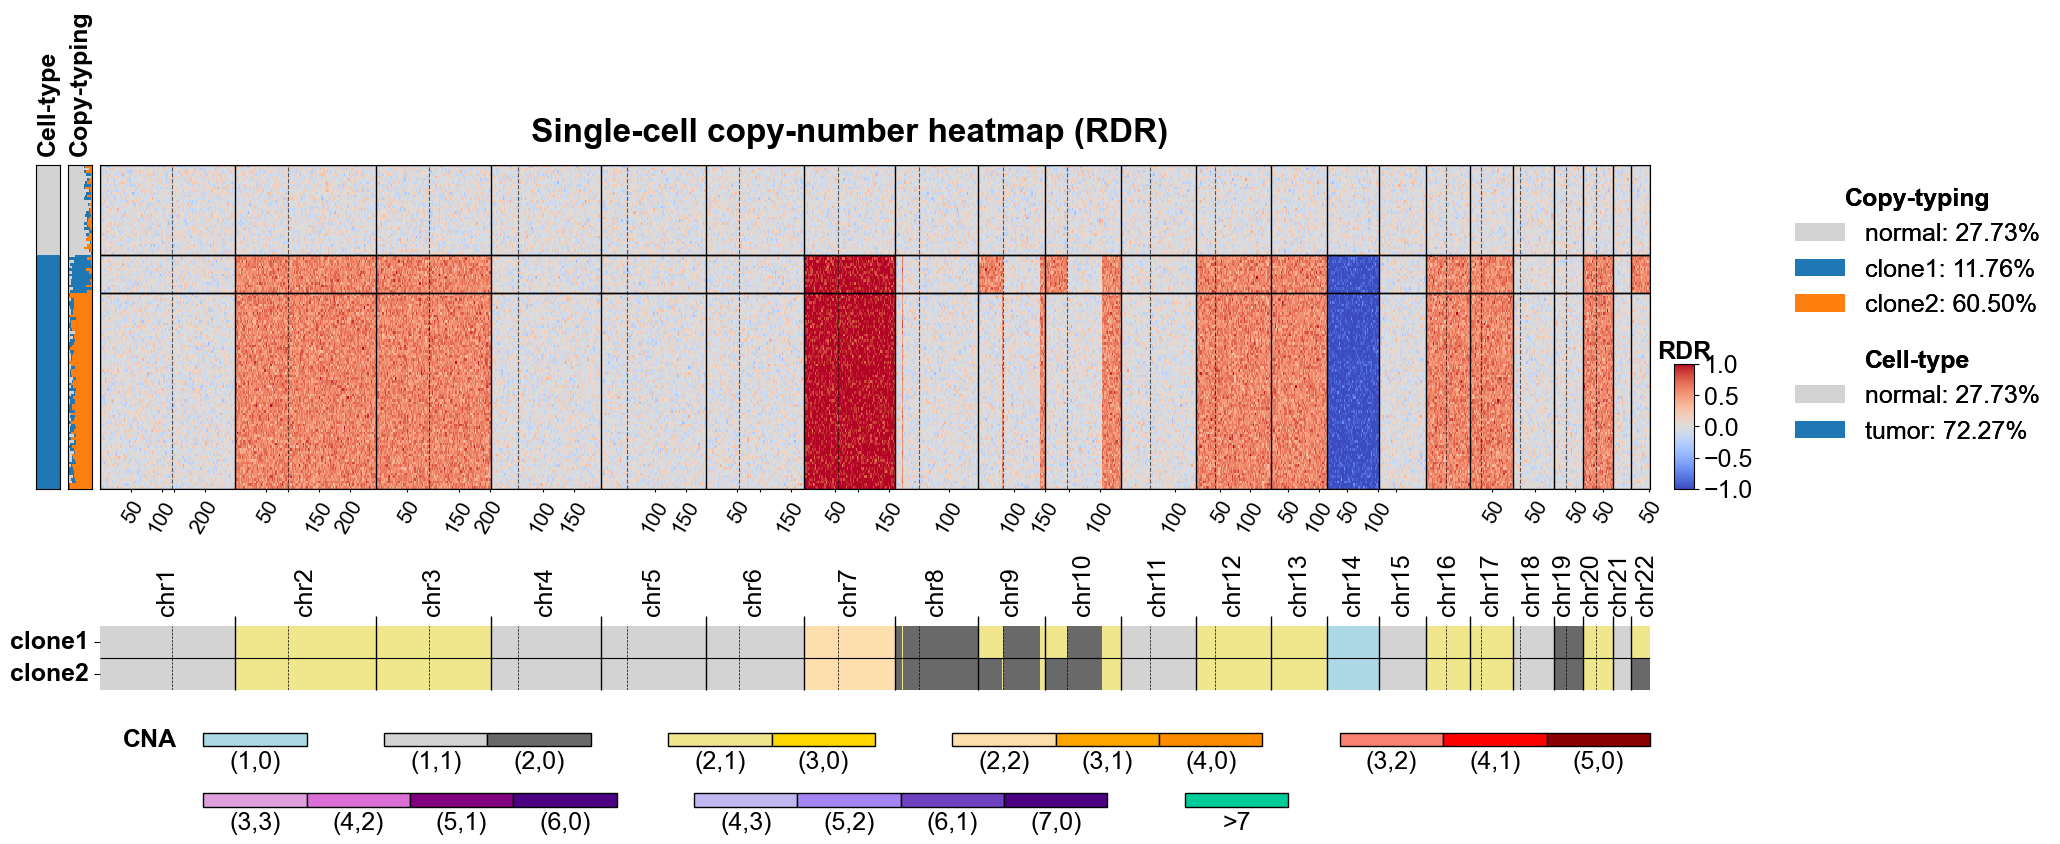
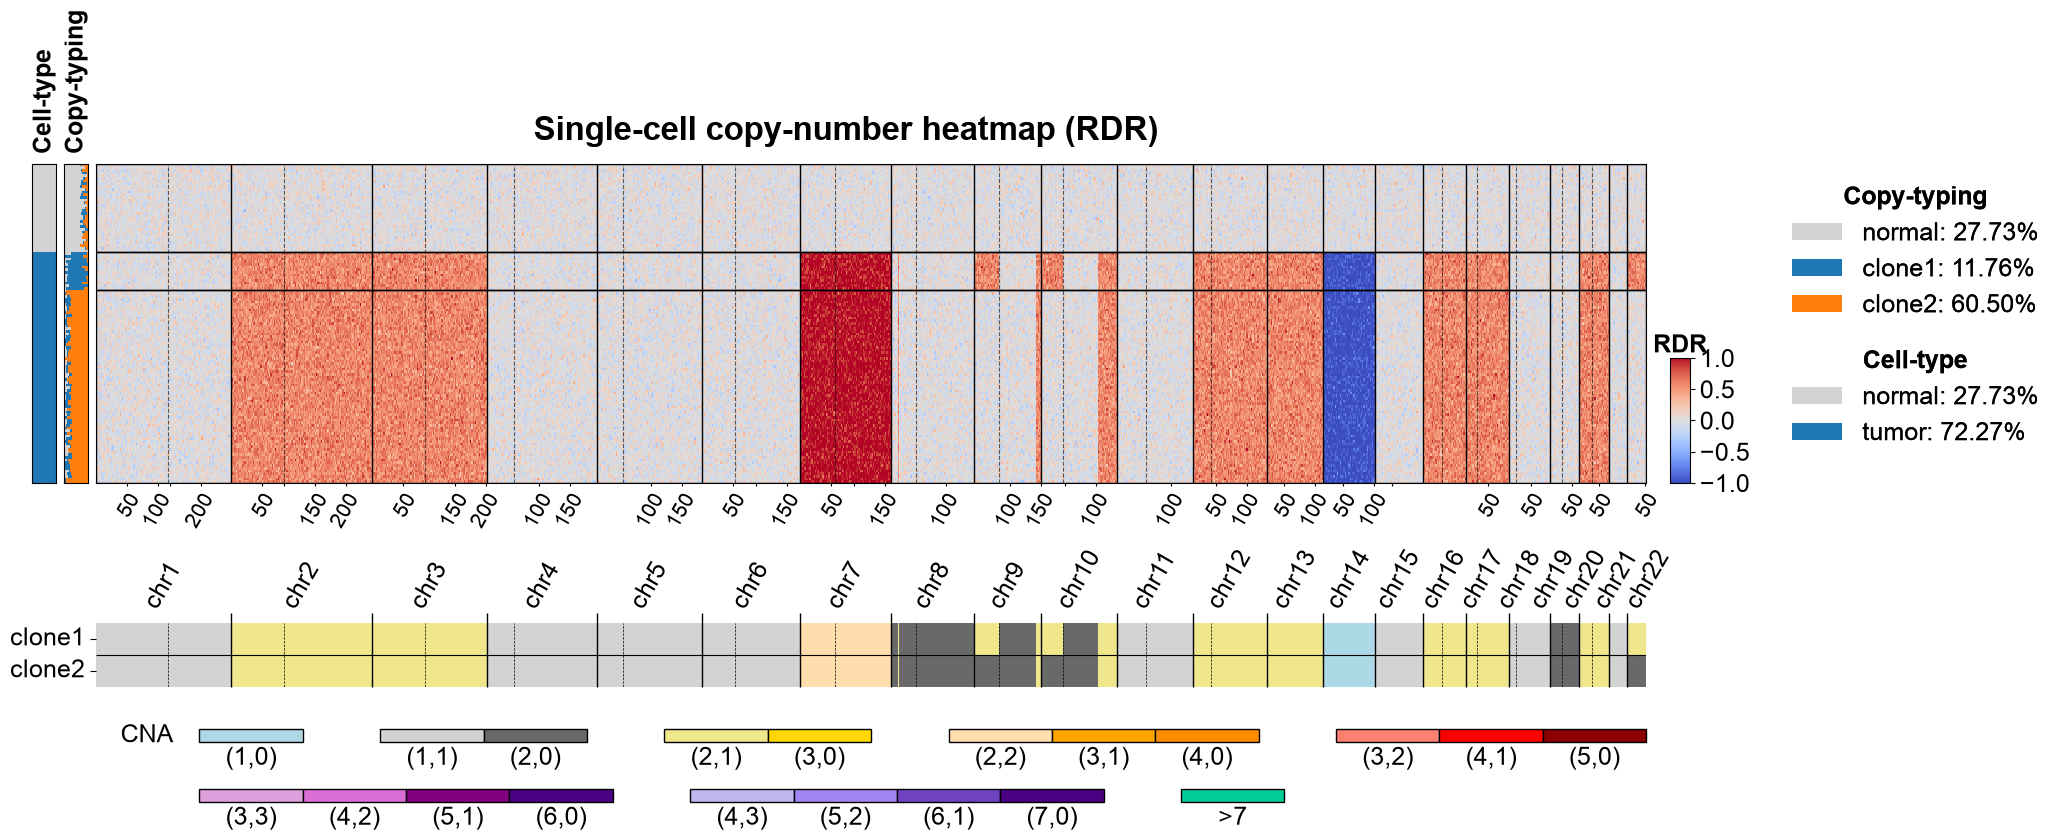
feat: chromosome names keep their rotation; regular-weight clone labels; 0.1.1b2
- Chromosome names keep the requested rotation (60 degrees by default)
  instead of standing upright when crowded; crowded names are still
  nudged apart, or split onto a second row on a narrow axes.
  chrname_tiers takes a rotation argument and genome_label_room sizes the
  gap for names at that angle.
- Clone labels beside the integer-CN profile, the heatmap row-block
  labels and the CN key's CNA title are set in the regular weight.
- Gallery images redrawn.
- Version 0.1.1b2.

diff --git a/src/cnplot/cnplot_utils.py b/src/cnplot/cnplot_utils.py
@@ -218,7 +218,7 @@ _CHRNAME_CHARS = 5
 _MB_CHARS = 3
 # Mb labels sit this far under the chromosome-name size.
 _MB_SHRINK = 3
-# Width one upright label needs, in font sizes.
+# Space one line of text needs across its height, in font sizes.
 _LINE = 1.1
 
 
@@ -236,6 +236,27 @@ def _label_extent_pt(n_chars: int, fontsize: float, rotation: float) -> float:
     length = _GLYPH_ADVANCE * fontsize * n_chars
     angle = math.radians(rotation)
     return length * abs(math.sin(angle)) + fontsize * abs(math.cos(angle))
+
+
+def _chrname_pitch(fontsize: float, rotation: float) -> float:
+    """Spacing along the axis two neighbouring chromosome names need, in points.
+
+    Parallel labels clear each other either side by side, a line apart across
+    their height, or end to end, a label length apart along their baseline;
+    the smaller of the two spacings is enough.
+
+    Args:
+        fontsize: Name font size in points.
+        rotation: Label rotation in degrees.
+
+    Returns:
+        The spacing in points.
+    """
+    angle = math.radians(rotation)
+    length = _GLYPH_ADVANCE * fontsize * (_CHRNAME_CHARS + 1)
+    side_by_side = _LINE * fontsize / max(abs(math.sin(angle)), 1e-6)
+    end_to_end = length / max(abs(math.cos(angle)), 1e-6)
+    return min(side_by_side, end_to_end)
 
 
 def genome_label_room(
@@ -258,7 +279,7 @@ def genome_label_room(
         chrnames: The lower axes writes chromosome names along its top.
         fontsize: Chromosome-name font size; Mb labels are derived from it as
             :func:`decorate_genome_axis` does.
-        rotation: Label rotation in degrees.
+        rotation: Label rotation in degrees, of the names and the Mb labels.
         pad: Clear space added around the labels, in points.
         tiers: Rows of chromosome names, from :func:`chrname_tiers`.
 
@@ -267,7 +288,7 @@ def genome_label_room(
     """
     room = pad
     if chrnames:
-        room += tiers * _label_extent_pt(_CHRNAME_CHARS, fontsize, 90)
+        room += tiers * _label_extent_pt(_CHRNAME_CHARS, fontsize, rotation)
         room += pad / 2
     if mb_ticks:
         room += _label_extent_pt(_MB_CHARS, max(fontsize - _MB_SHRINK, 4), rotation)
@@ -291,11 +312,14 @@ def _positions_pt(ax: plt.Axes, positions) -> np.ndarray:
 
 
 def chrname_tiers(
-    genome_axis: GenomeAxis, axes_width_in: float, fontsize: float = FS_TICK
+    genome_axis: GenomeAxis,
+    axes_width_in: float,
+    fontsize: float = FS_TICK,
+    rotation: float = 60,
 ) -> int:
     """How many rows the chromosome names need on an axes this wide: 1 or 2.
 
-    Upright names need one line of width each. Names closer than that are
+    Rotated names need a line of clearance each. Names closer than that are
     nudged apart along the axis (:func:`decorate_genome_axis`), which works as
     long as the axes is wide enough to hold them all in one row; past that,
     every second crowded name goes on a second row and a layout has to leave
@@ -305,12 +329,13 @@ def chrname_tiers(
         genome_axis: Axis supplying the name positions.
         axes_width_in: Width of the axes in inches.
         fontsize: Name font size in points.
+        rotation: Name rotation in degrees.
 
     Returns:
         2 where one row cannot hold every name, else 1.
     """
     n = len(genome_axis.xtick_chrs)
-    return 2 if n * _LINE * fontsize > axes_width_in * 72.0 else 1
+    return 2 if n * _chrname_pitch(fontsize, rotation) > axes_width_in * 72.0 else 1
 
 
 def _spread(at: np.ndarray, need: float) -> np.ndarray:
@@ -368,11 +393,10 @@ def decorate_genome_axis(
         rotation: Tick label rotation in degrees, applied to the chromosome names
             or, with ``mb_ticks``, to the Mb labels; rotating keeps the dense Mb
             labels from overlapping. Chromosome names stay upright in that mode.
-            Chromosome names closer together than one line at this angle are
-            drawn at 90 degrees instead and nudged apart along the axis; on an
-            axes too narrow to hold them in one row, every second crowded name
-            goes on a second row. Mb labels too close to the previous one are
-            left blank.
+            Chromosome names closer together than one line at this angle keep
+            the angle and are nudged apart along the axis; on an axes too
+            narrow to hold them in one row, every second crowded name goes on a
+            second row. Mb labels too close to the previous one are left blank.
         fontsize: Label font size; defaults to the module-level FS_TICK.
         hide_spines: Hide all four spines.
         pad_axis: Use the padded limits instead of tight genome ends.
@@ -447,15 +471,10 @@ def decorate_genome_axis(
         return
 
     ax.set_xticks(genome_axis.xtick_chrs)
-    # NB: names that would touch at this angle stand upright instead
-    at = _positions_pt(ax, genome_axis.xtick_chrs)
-    line = fontsize / max(math.sin(math.radians(max(rotation, 1.0))), 1e-6)
-    crowded = len(at) > 1 and float(np.diff(np.sort(at)).min()) < line
-    if crowded:
-        rotation = 90
     ax.set_xticklabels(genome_axis.xlab_chrs, rotation=rotation, fontsize=fontsize)
-    if crowded:
-        need = _LINE * fontsize
+    at = _positions_pt(ax, genome_axis.xtick_chrs)
+    need = _chrname_pitch(fontsize, rotation)
+    if len(at) > 1 and float(np.diff(np.sort(at)).min()) < need:
         ticks = ax.xaxis.get_major_ticks()
         width_pt = ax.get_position().width * ax.figure.get_figwidth() * 72.0
         if len(at) * need <= width_pt:
@@ -466,7 +485,7 @@ def decorate_genome_axis(
                     label.set_transform(label.get_transform() + shift)
         else:
             # NB: one row cannot hold them; alternate crowded names go up a row
-            lift = _label_extent_pt(_CHRNAME_CHARS, fontsize, 90) + 4.0
+            lift = _label_extent_pt(_CHRNAME_CHARS, fontsize, rotation) + 4.0
             last = [-math.inf, -math.inf]
             base = plt.rcParams["xtick.major.pad"]
             for i in np.argsort(at):

diff --git a/tests/test_type_scale.py b/tests/test_type_scale.py
@@ -45,25 +45,23 @@ def test_rc_defaults_are_on_the_scale():
         assert plt.rcParams[key] >= FS_ANNOT
 
 
-def _overlaps(fig, labels):
+def _line_gaps_pt(fig, labels, rotation):
+    """Clearance across the text height between neighbouring parallel labels."""
     fig.canvas.draw()
-    renderer = fig.canvas.get_renderer()
-    boxes = [t.get_window_extent(renderer) for t in labels if t.get_text()]
-    return [
-        (a, b)
-        for i, a in enumerate(boxes)
-        for b in boxes[i + 1 :]
-        if a.overlaps(b) and min(a.width, b.width) > 0
-    ]
+    boxes = [t.get_window_extent() for t in labels if t.get_text()]
+    x_pt = sorted((b.x0 + b.x1) / 2.0 * 72.0 / fig.dpi for b in boxes)
+    sine = math.sin(math.radians(rotation))
+    return [(b - a) * sine for a, b in zip(x_pt, x_pt[1:], strict=False)]
 
 
-@pytest.mark.parametrize("width", [20.0, 12.0, 9.0])
-def test_chromosome_names_do_not_overlap(axis, width):
+@pytest.mark.parametrize("width", [20.0, 12.0, 10.0])
+def test_chromosome_names_keep_their_angle_and_clear_each_other(axis, width):
     fig, ax = plt.subplots(figsize=(width, 3))
-    decorate_genome_axis(ax, axis, label_pos="top")
+    decorate_genome_axis(ax, axis, label_pos="top", rotation=60)
     labels = [t.label2 for t in ax.xaxis.get_major_ticks()]
     assert {t.get_fontsize() for t in labels} == {FS_TICK}
-    assert not _overlaps(fig, labels)
+    assert {t.get_rotation() for t in labels} == {60.0}
+    assert min(_line_gaps_pt(fig, labels, 60)) >= FS_TICK * 0.99
     plt.close(fig)
 
 

diff --git a/src/cnplot/cnplot_intcnp.py b/src/cnplot/cnplot_intcnp.py
@@ -501,7 +501,7 @@ def plot_cnv_profile(
         props,
         ylabel,
         title,
-        label_fontweight="bold",
+        label_fontweight=None,
         tick_pad=4,
     )
     if ax_leg is not None:
@@ -650,7 +650,6 @@ def _plot_cnv_legend(
         pair_h / 2.0,
         "CNA",
         fontsize=fontsize,
-        fontweight="bold",
         ha="right",
         va="center",
     )

diff --git a/src/cnplot/cnplot_heatmap.py b/src/cnplot/cnplot_heatmap.py
@@ -250,7 +250,7 @@ def _draw_row_blocks(
 
     if show_block_labels:
         ax.set_yticks(yticks)
-        ax.set_yticklabels(yticklabels, fontsize=FS_TICK, fontweight="bold")
+        ax.set_yticklabels(yticklabels, fontsize=FS_TICK)
     else:
         ax.set_yticks([])
 

diff --git a/CHANGELOG.md b/CHANGELOG.md
@@ -3,6 +3,9 @@
 ## Unreleased
 
 ### cnplot package
+- Clone names are set in the regular weight: the clone labels beside the integer-CN profile
+  and the `<label> (<pct>%)` row-block labels on the heatmap. The CN key's `CNA` title is
+  regular as well.
 - `BAF_LIM = (-0.01, 1.01)`: default limits for a BAF-like axis on [0, 1], exported from
   `cnplot`. The pad keeps points at exactly 0 or 1 off the spine while the ticks still run
   0.0 to 1.0. Used by the gallery/README BAF row (`ylim`) and the RDR-vs-BAF scatter
@@ -26,9 +29,10 @@
   - the `plot_heatmap_cnp` title is anchored above the mesh rather than at a fixed
     figure height.
 - Genome-axis labels are placed so they clear each other at the type scale:
-  - chromosome names closer together than a line are drawn upright and nudged apart along
-    the axis; on an axes too narrow to hold them in one row, alternate crowded names go on
-    a second row (`chrname_tiers` tells a layout which case applies);
+  - chromosome names keep their `rotation` (60 degrees by default); names closer together
+    than a line at that angle are nudged apart along the axis, and on an axes too narrow
+    to hold them in one row, alternate crowded names go on a second row (`chrname_tiers`
+    tells a layout which case applies);
   - in Mb mode an Mb label within a line of the previous one is left blank (its tick mark
     stays), the chromosome names under the Mb labels are offset in points rather than as a
     fraction of the axes, and on a stacked page only the last row labels its Mb ticks;

diff --git a/README.md b/README.md
@@ -1,6 +1,6 @@
 # CN-Plot
 
-[![Version](https://img.shields.io/badge/version-0.1.1b1-blue.svg)](VERSION)
+[![Version](https://img.shields.io/badge/version-0.1.1b2-blue.svg)](VERSION)
 [![Python](https://img.shields.io/badge/python-3.10%2B-blue.svg)](https://www.python.org/downloads/)
 [![Code style: Ruff](https://img.shields.io/badge/code%20style-ruff-000000.svg)](https://github.com/astral-sh/ruff)
 
